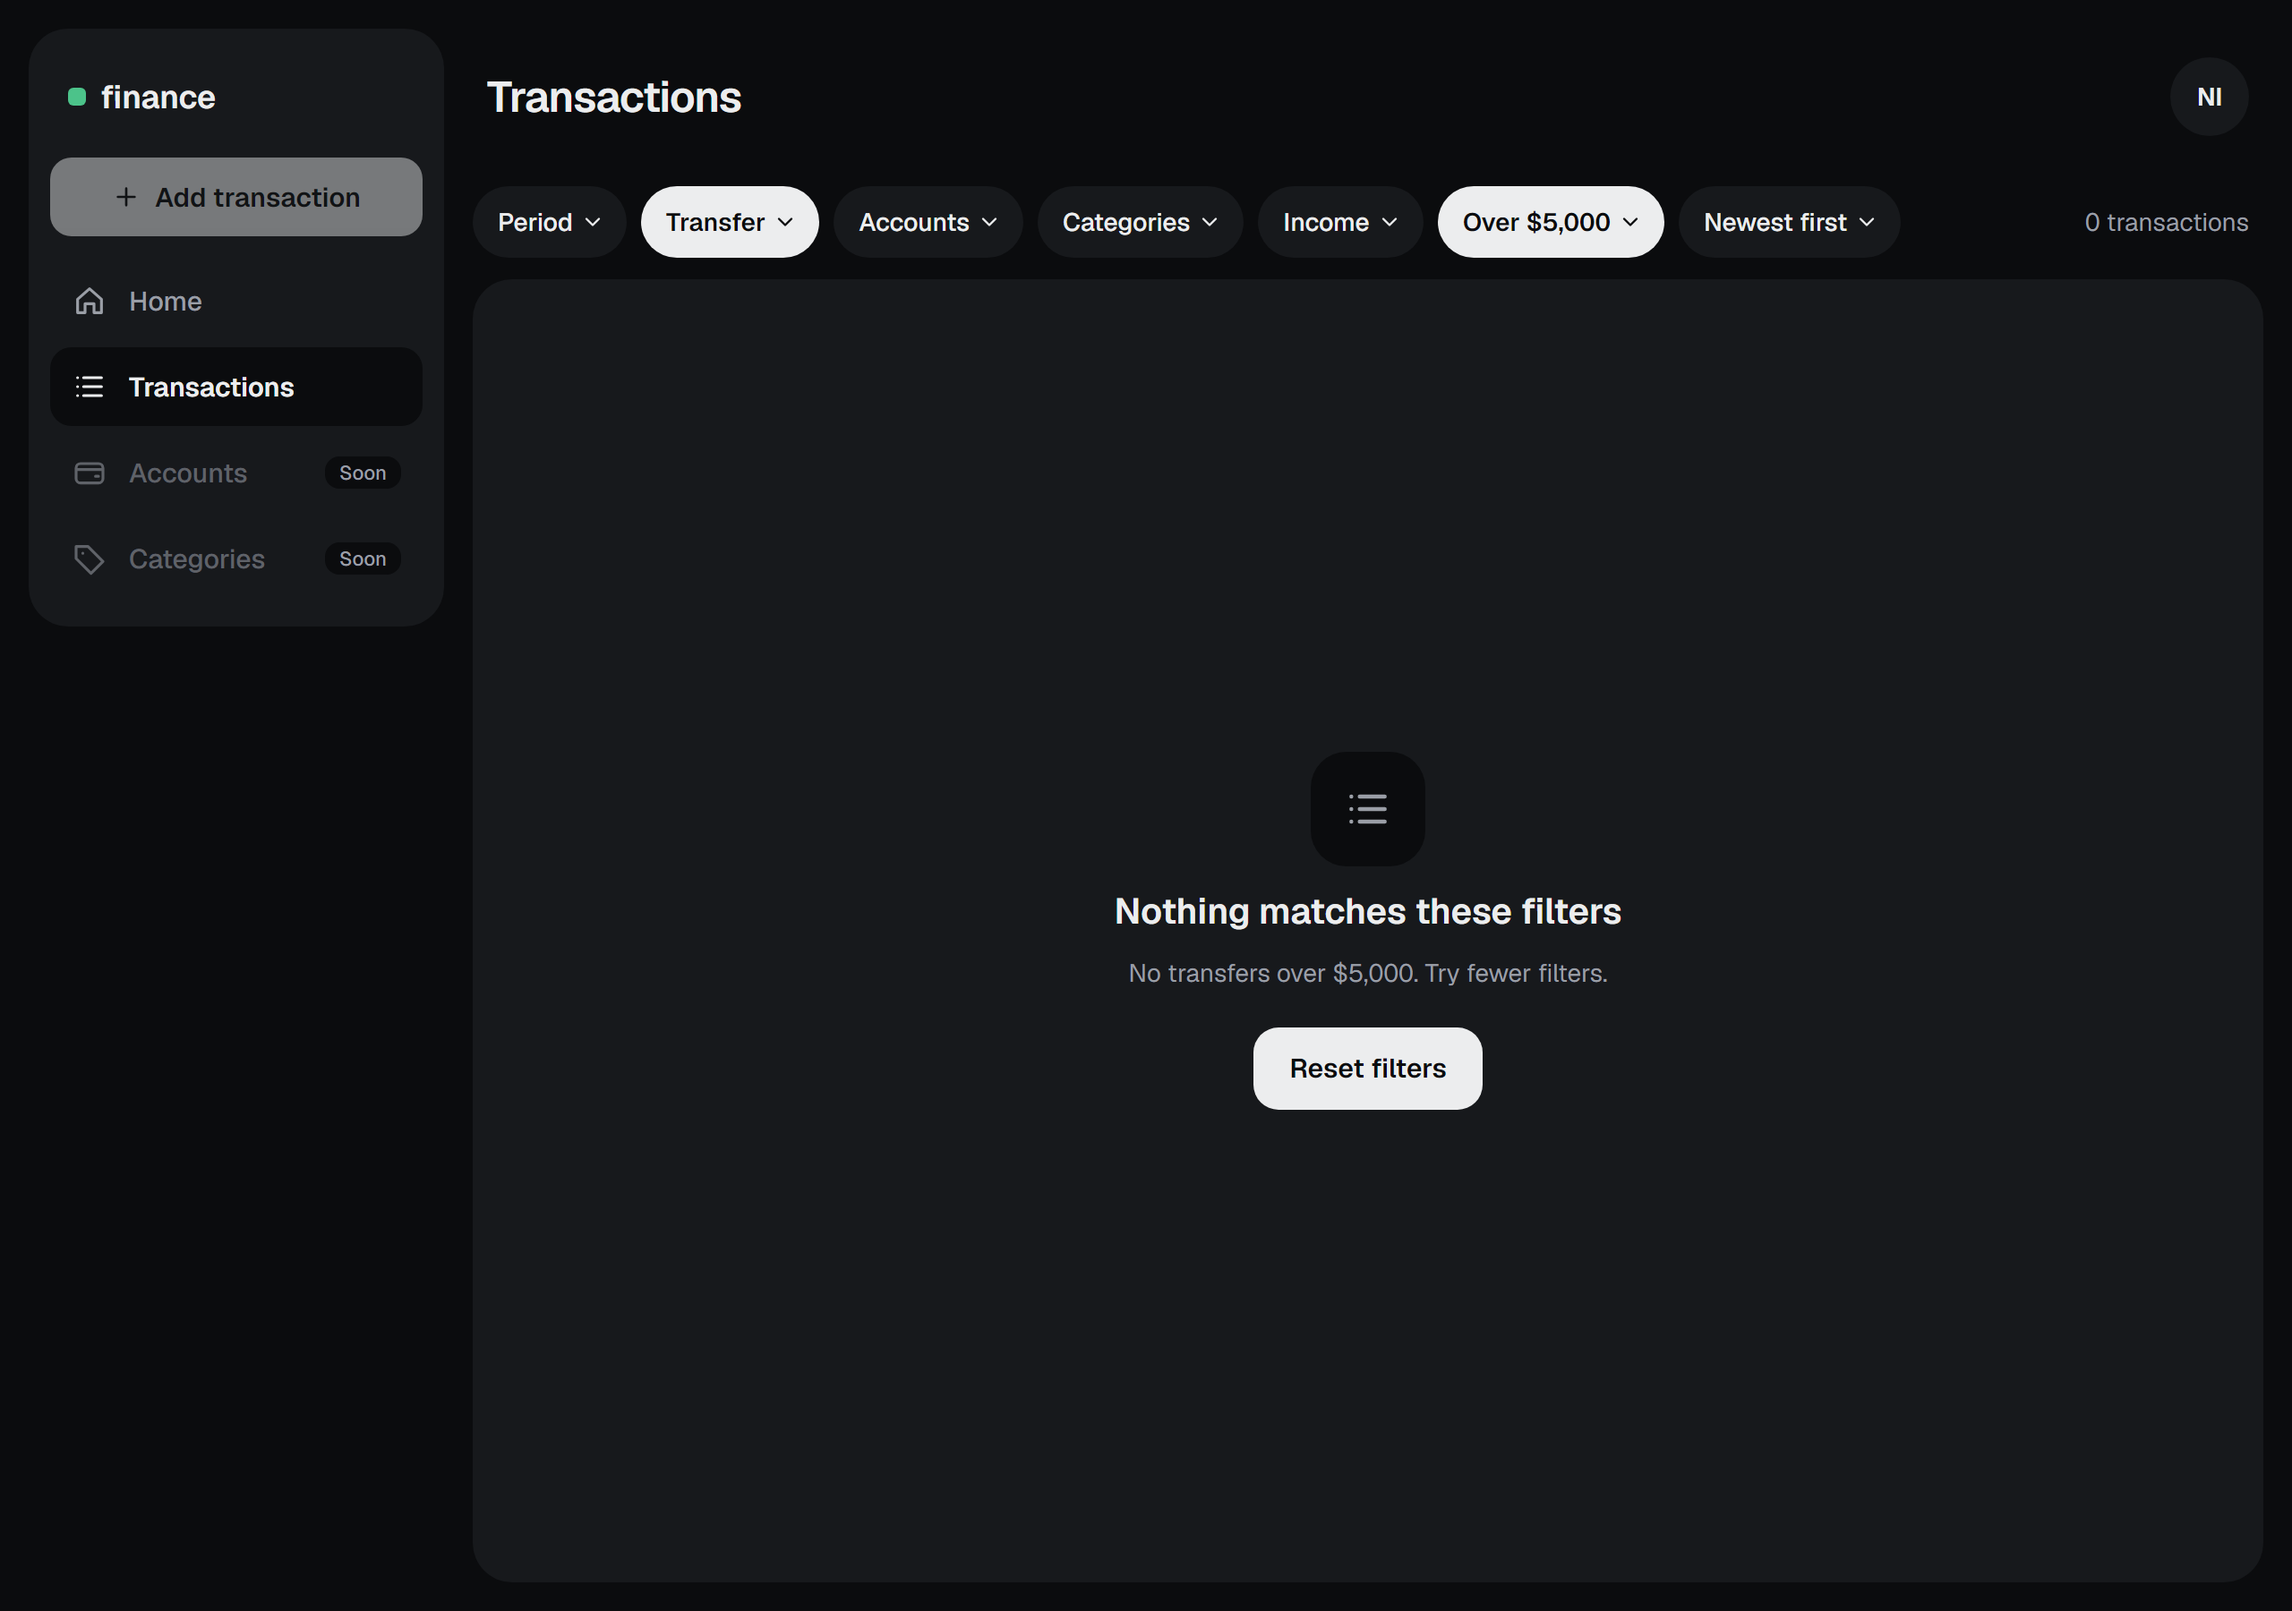
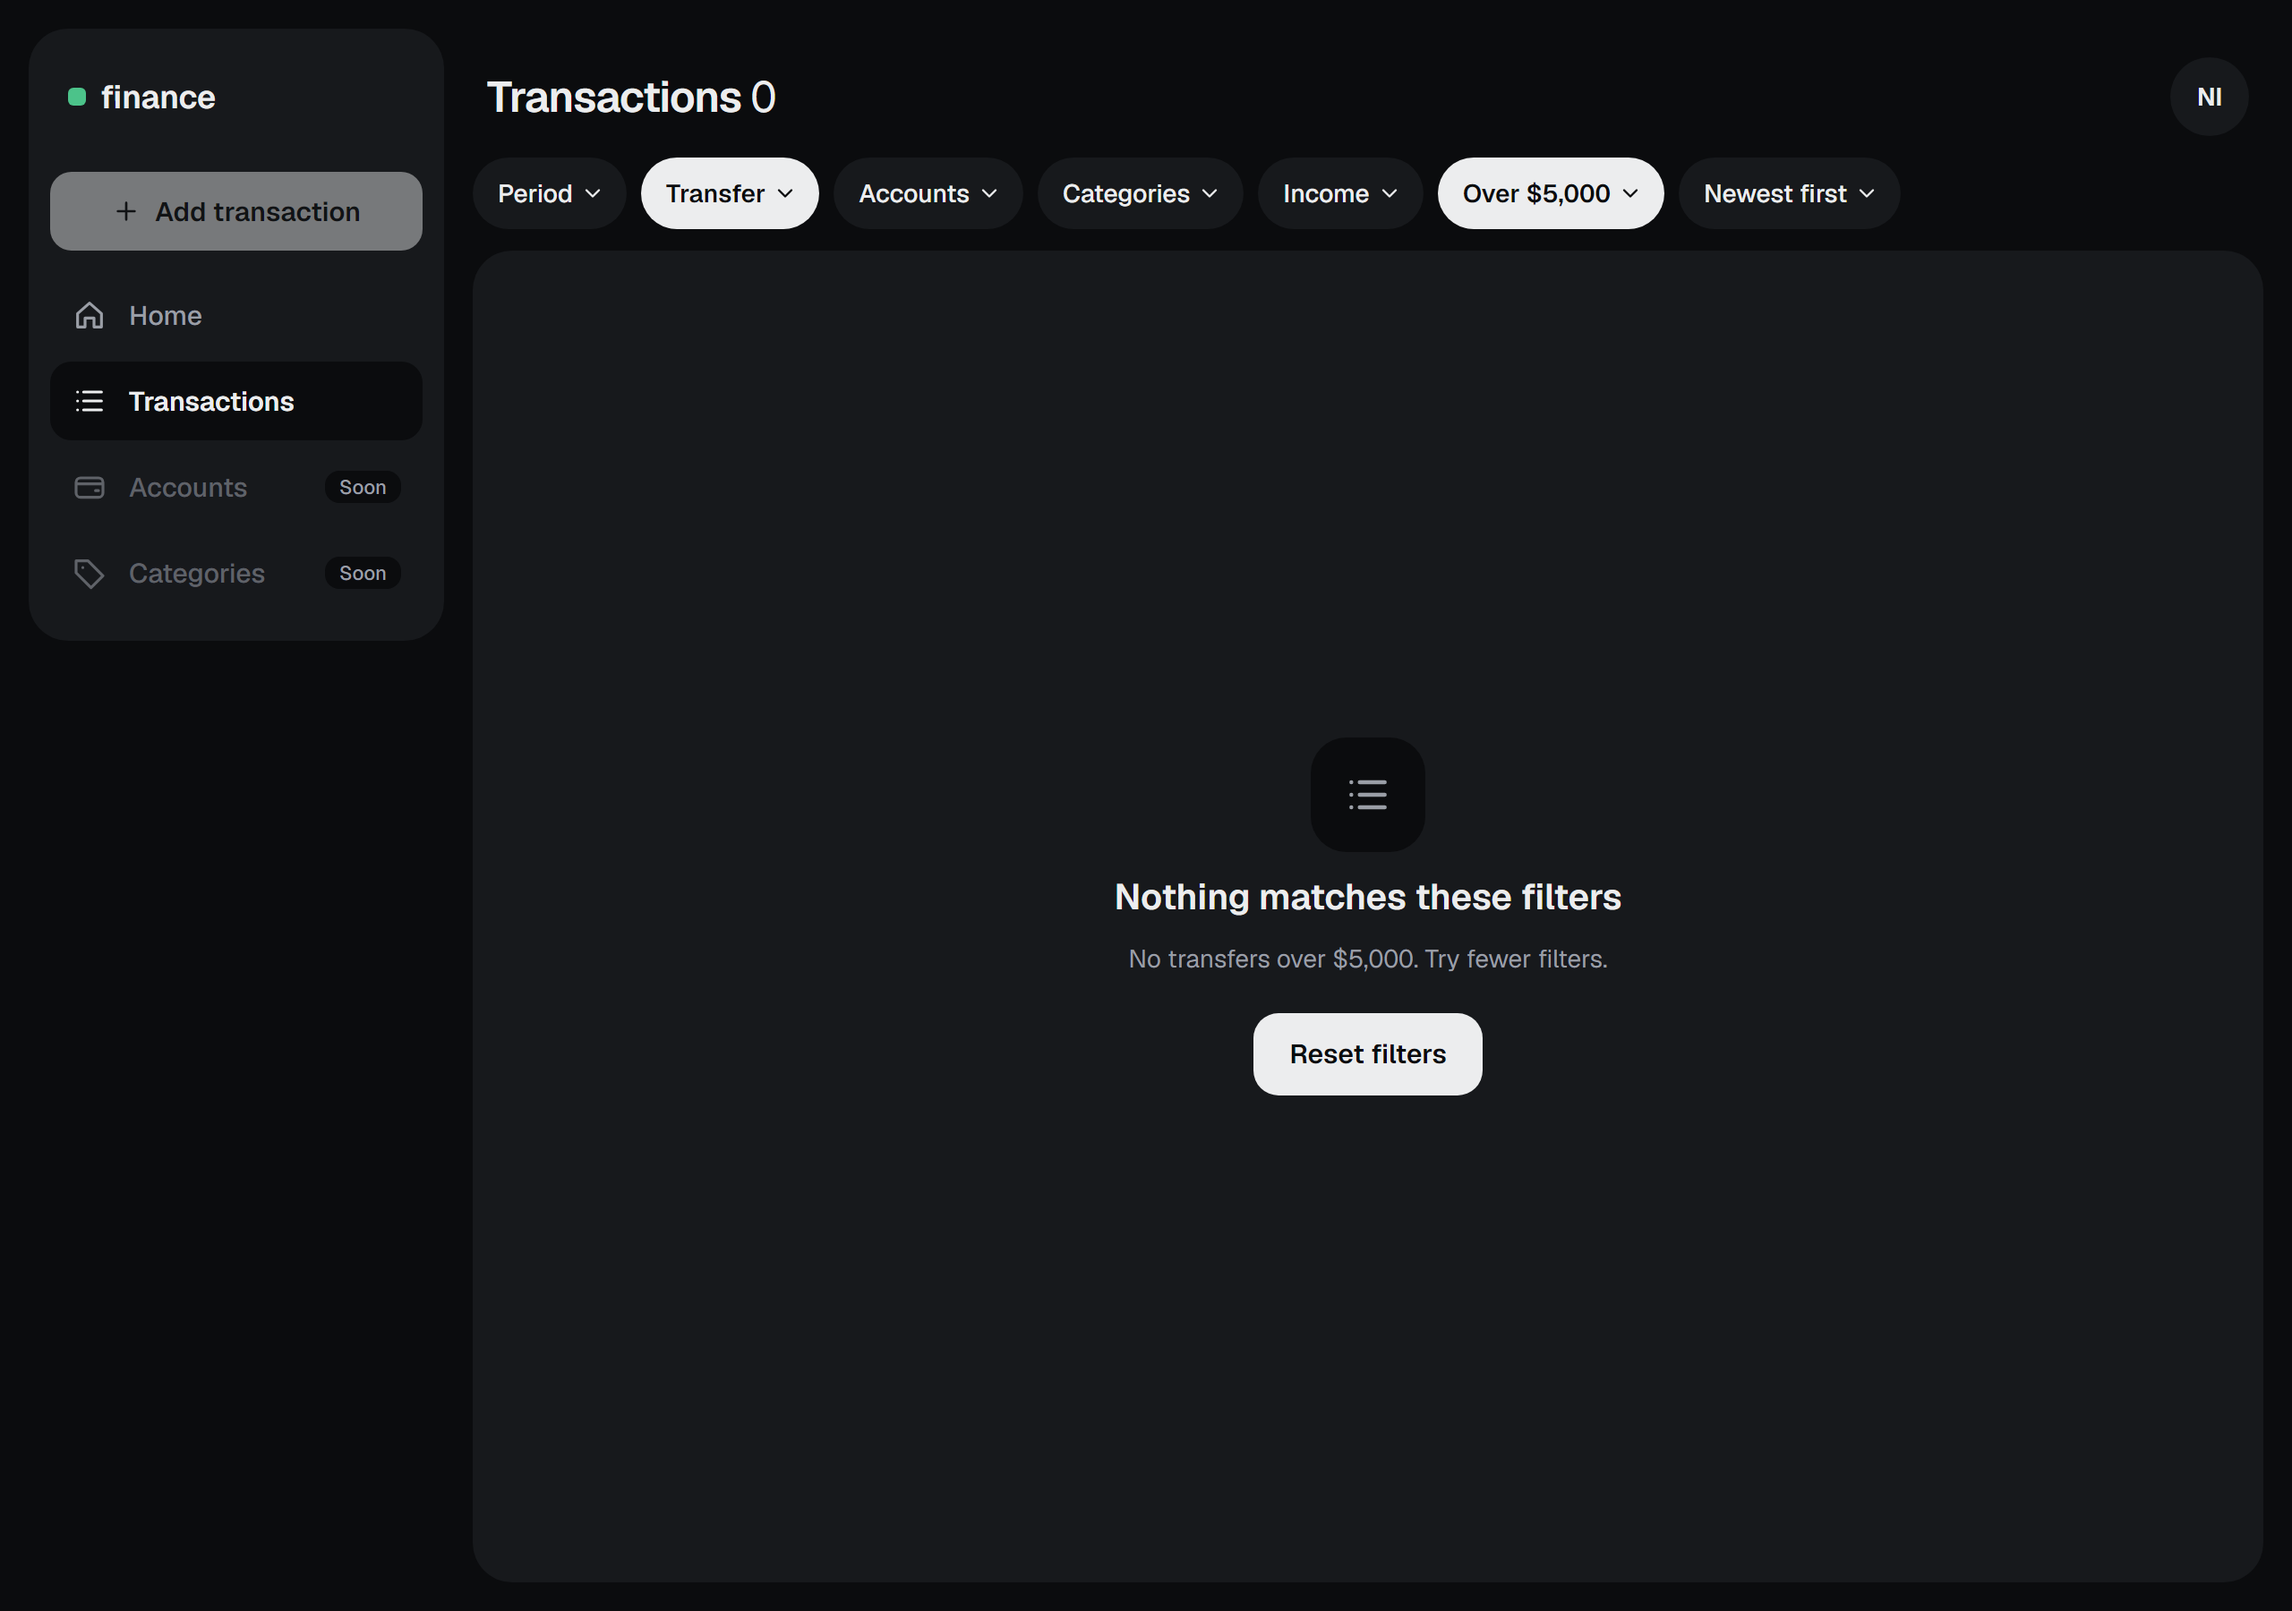
#267: Fit the header to one row in the Home and Transactions mockups
Claude-Session: https://claude.ai/code/session_01N5ozz4VwW18tm9oWULU8Rq

diff --git a/219/design/empty-desktop.dc.html b/219/design/empty-desktop.dc.html
@@ -17,7 +17,7 @@ button{font:inherit;cursor:pointer}
 </helmet>
 <div style="width: 1280px; height: 900px; box-sizing: border-box; padding: 16px; overflow: hidden; display: flex; align-items: flex-start; gap: 16px; font-family: Geist, system-ui, sans-serif; font-variant-numeric: tabular-nums; background: {{t.bg}}; color: {{t.text}}">
   <nav aria-label="Main" style="flex: 0 0 232px; box-sizing: border-box; padding: 16px 12px; border-radius: 22px; display: flex; flex-direction: column; gap: 4px; background: {{t.panel}}">
-    <div style="height: 44px; padding: 0 10px; margin-bottom: 8px; display: flex; align-items: center; gap: 8px; font-weight: 600; font-size: 18px">
+    <div style="height: 44px; padding: 0 10px; margin-bottom: 16px; display: flex; align-items: center; gap: 8px; font-weight: 600; font-size: 18px">
       <span style="width: 10px; height: 10px; border-radius: 3px; background: {{t.accent}}"></span>
       finance
     </div>
@@ -42,8 +42,8 @@ button{font:inherit;cursor:pointer}
     </sc-for>
   </nav>
   <div style="flex: 1 1 auto; min-width: 0; height: 100%; display: flex; flex-direction: column; gap: 12px">
-    <div style="height: 76px; flex-shrink: 0; padding: 0 8px; display: flex; align-items: center; justify-content: space-between; gap: 12px">
-      <h1 style="margin: 0; font-size: 24px; font-weight: 600; letter-spacing: -0.02em">Transactions</h1>
+    <div style="height: 44px; margin-top: 16px; flex-shrink: 0; padding: 0 8px; display: flex; align-items: center; justify-content: space-between; gap: 12px">
+      <h1 style="margin: 0; font-size: 24px; font-weight: 600; letter-spacing: -0.02em">Transactions <span style="font-weight: 400; color: {t.muted}">0</span></h1>
       <a href="#" aria-label="Account menu" style="width: 44px; height: 44px; border-radius: 22px; display: flex; align-items: center; justify-content: center; font-size: 14px; font-weight: 600; background: {{t.panel}}">NI</a>
     </div>
     <div style="display: flex; align-items: center; gap: 8px">
@@ -55,7 +55,6 @@ button{font:inherit;cursor:pointer}
           </button>
         </sc-for>
       </div>
-      <span style="margin-left: auto; padding-right: 8px; font-size: 14px; color: {{t.muted}}">0 transactions</span>
     </div>
     <section aria-label="Transactions" style="flex: 1 1 auto; padding: 24px; border-radius: 22px; display: flex; flex-direction: column; align-items: center; justify-content: center; gap: 12px; text-align: center; background: {{t.panel}}">
       <span aria-hidden="true" style="width: 64px; height: 64px; border-radius: 20px; display: flex; align-items: center; justify-content: center; background: {{t.bg}}; color: {{t.muted}}">

diff --git a/219/design/a-desktop.dc.html b/219/design/a-desktop.dc.html
@@ -17,7 +17,7 @@ button{font:inherit;cursor:pointer}
 </helmet>
 <div style="width: 1280px; height: 900px; box-sizing: border-box; padding: 16px; overflow: hidden; display: flex; align-items: flex-start; gap: 16px; font-family: Geist, system-ui, sans-serif; font-variant-numeric: tabular-nums; background: {{t.bg}}; color: {{t.text}}">
   <nav aria-label="Main" style="flex: 0 0 232px; box-sizing: border-box; padding: 16px 12px; border-radius: 22px; display: flex; flex-direction: column; gap: 4px; background: {{t.panel}}">
-    <div style="height: 44px; padding: 0 10px; margin-bottom: 8px; display: flex; align-items: center; gap: 8px; font-weight: 600; font-size: 18px">
+    <div style="height: 44px; padding: 0 10px; margin-bottom: 16px; display: flex; align-items: center; gap: 8px; font-weight: 600; font-size: 18px">
       <span style="width: 10px; height: 10px; border-radius: 3px; background: {{t.accent}}"></span>
       finance
     </div>
@@ -42,8 +42,8 @@ button{font:inherit;cursor:pointer}
     </sc-for>
   </nav>
   <div style="flex: 1 1 auto; min-width: 0; height: 100%; display: flex; flex-direction: column; gap: 12px">
-    <div style="height: 76px; flex-shrink: 0; padding: 0 8px; display: flex; align-items: center; justify-content: space-between; gap: 12px">
-      <h1 style="margin: 0; font-size: 24px; font-weight: 600; letter-spacing: -0.02em">Transactions</h1>
+    <div style="height: 44px; margin-top: 16px; flex-shrink: 0; padding: 0 8px; display: flex; align-items: center; justify-content: space-between; gap: 12px">
+      <h1 style="margin: 0; font-size: 24px; font-weight: 600; letter-spacing: -0.02em">Transactions <span style="font-weight: 400; color: {t.muted}">312</span></h1>
       <a href="#" aria-label="Account menu" style="width: 44px; height: 44px; border-radius: 22px; display: flex; align-items: center; justify-content: center; font-size: 14px; font-weight: 600; background: {{t.panel}}">NI</a>
     </div>
     <div style="display: flex; align-items: center; gap: 8px">
@@ -55,7 +55,6 @@ button{font:inherit;cursor:pointer}
           </button>
         </sc-for>
       </div>
-      <span style="margin-left: auto; padding-right: 8px; font-size: 14px; color: {{t.muted}}">312 transactions</span>
     </div>
     <div style="flex: 1 1 auto; min-height: 0; display: flex; gap: 16px">
       <section aria-label="Transactions" style="flex: 1 1 auto; min-width: 0; overflow: hidden; padding: 4px 20px; border-radius: 22px; display: flex; flex-direction: column; background: {{t.panel}}">

diff --git a/219/design/home-desktop.dc.html b/219/design/home-desktop.dc.html
@@ -17,7 +17,7 @@ button{font:inherit;cursor:pointer}
 </helmet>
 <div style="width: 1280px; height: 1000px; box-sizing: border-box; padding: 16px; overflow: hidden; display: flex; align-items: flex-start; gap: 16px; font-family: Geist, system-ui, sans-serif; font-variant-numeric: tabular-nums; background: {{t.bg}}; color: {{t.text}}">
   <nav aria-label="Main" style="flex: 0 0 232px; box-sizing: border-box; padding: 16px 12px; border-radius: 22px; display: flex; flex-direction: column; gap: 4px; background: {{t.panel}}">
-    <div style="height: 44px; padding: 0 10px; margin-bottom: 8px; display: flex; align-items: center; gap: 8px; font-weight: 600; font-size: 18px">
+    <div style="height: 44px; padding: 0 10px; margin-bottom: 16px; display: flex; align-items: center; gap: 8px; font-weight: 600; font-size: 18px">
       <span style="width: 10px; height: 10px; border-radius: 3px; background: {{t.accent}}"></span>
       finance
     </div>
@@ -42,7 +42,7 @@ button{font:inherit;cursor:pointer}
     </sc-for>
   </nav>
   <div style="flex: 1 1 auto; min-width: 0; height: 100%; display: flex; flex-direction: column; gap: 16px">
-    <div style="height: 76px; flex-shrink: 0; padding: 0 8px; display: flex; align-items: center; justify-content: space-between; gap: 12px">
+    <div style="height: 44px; margin-top: 16px; flex-shrink: 0; padding: 0 8px; display: flex; align-items: center; justify-content: space-between; gap: 12px">
       <h1 style="margin: 0; font-size: 24px; font-weight: 600; letter-spacing: -0.02em">Home</h1>
       <a href="#" aria-label="Account menu" style="width: 44px; height: 44px; border-radius: 22px; display: flex; align-items: center; justify-content: center; font-size: 14px; font-weight: 600; background: {{t.panel}}">NI</a>
     </div>

diff --git a/219/design/Main.dc.html b/219/design/Main.dc.html
@@ -17,7 +17,7 @@ button{font:inherit;cursor:pointer}
 </helmet>
 <div style="width: 390px; height: 844px; box-sizing: border-box; padding: 16px 16px 104px; position: relative; overflow: hidden; display: flex; flex-direction: column; gap: 12px; font-family: Geist, system-ui, sans-serif; font-variant-numeric: tabular-nums; background: {{t.bg}}; color: {{t.text}}">
   <div style="padding: 0 8px; display: flex; align-items: center; justify-content: space-between">
-    <h1 style="margin: 0; font-size: 24px; font-weight: 600; letter-spacing: -0.02em">Transactions</h1>
+    <h1 style="margin: 0; font-size: 24px; font-weight: 600; letter-spacing: -0.02em">Transactions <span style="font-weight: 400; color: {t.muted}">312</span></h1>
     <a href="#" aria-label="Account menu" style="width: 44px; height: 44px; border-radius: 22px; display: flex; align-items: center; justify-content: center; font-size: 14px; font-weight: 600; background: {{t.panel}}">NI</a>
   </div>
   <div role="toolbar" aria-label="Filters" style="margin: 0 -16px; padding: 0 16px; display: flex; gap: 8px; overflow-x: auto; scrollbar-width: none">
@@ -28,7 +28,6 @@ button{font:inherit;cursor:pointer}
       </a>
     </sc-for>
   </div>
-  <div style="padding: 0 8px; font-size: 13px; color: {{t.muted}}">312 transactions</div>
   <section aria-label="Transactions" style="flex: 1 1 auto; min-height: 0; overflow: hidden; padding: 4px 16px; border-radius: 20px; display: flex; flex-direction: column; background: {{t.panel}}">
     <sc-for list="{{days}}" as="d" hint-placeholder-count="3">
       <div style="height: 36px; margin-top: 4px; display: flex; align-items: flex-end; justify-content: space-between; padding-bottom: 4px; font-size: 13px; color: {{t.muted}}">

diff --git a/219/design/empty-phone.dc.html b/219/design/empty-phone.dc.html
@@ -17,7 +17,7 @@ button{font:inherit;cursor:pointer}
 </helmet>
 <div style="width: 390px; height: 844px; box-sizing: border-box; padding: 16px 16px 104px; position: relative; overflow: hidden; display: flex; flex-direction: column; gap: 12px; font-family: Geist, system-ui, sans-serif; font-variant-numeric: tabular-nums; background: {{t.bg}}; color: {{t.text}}">
   <div style="padding: 0 8px; display: flex; align-items: center; justify-content: space-between">
-    <h1 style="margin: 0; font-size: 24px; font-weight: 600; letter-spacing: -0.02em">Transactions</h1>
+    <h1 style="margin: 0; font-size: 24px; font-weight: 600; letter-spacing: -0.02em">Transactions <span style="font-weight: 400; color: {t.muted}">0</span></h1>
     <a href="#" aria-label="Account menu" style="width: 44px; height: 44px; border-radius: 22px; display: flex; align-items: center; justify-content: center; font-size: 14px; font-weight: 600; background: {{t.panel}}">NI</a>
   </div>
   <div role="toolbar" aria-label="Filters" style="margin: 0 -16px; padding: 0 16px; display: flex; gap: 8px; overflow-x: auto; scrollbar-width: none">
